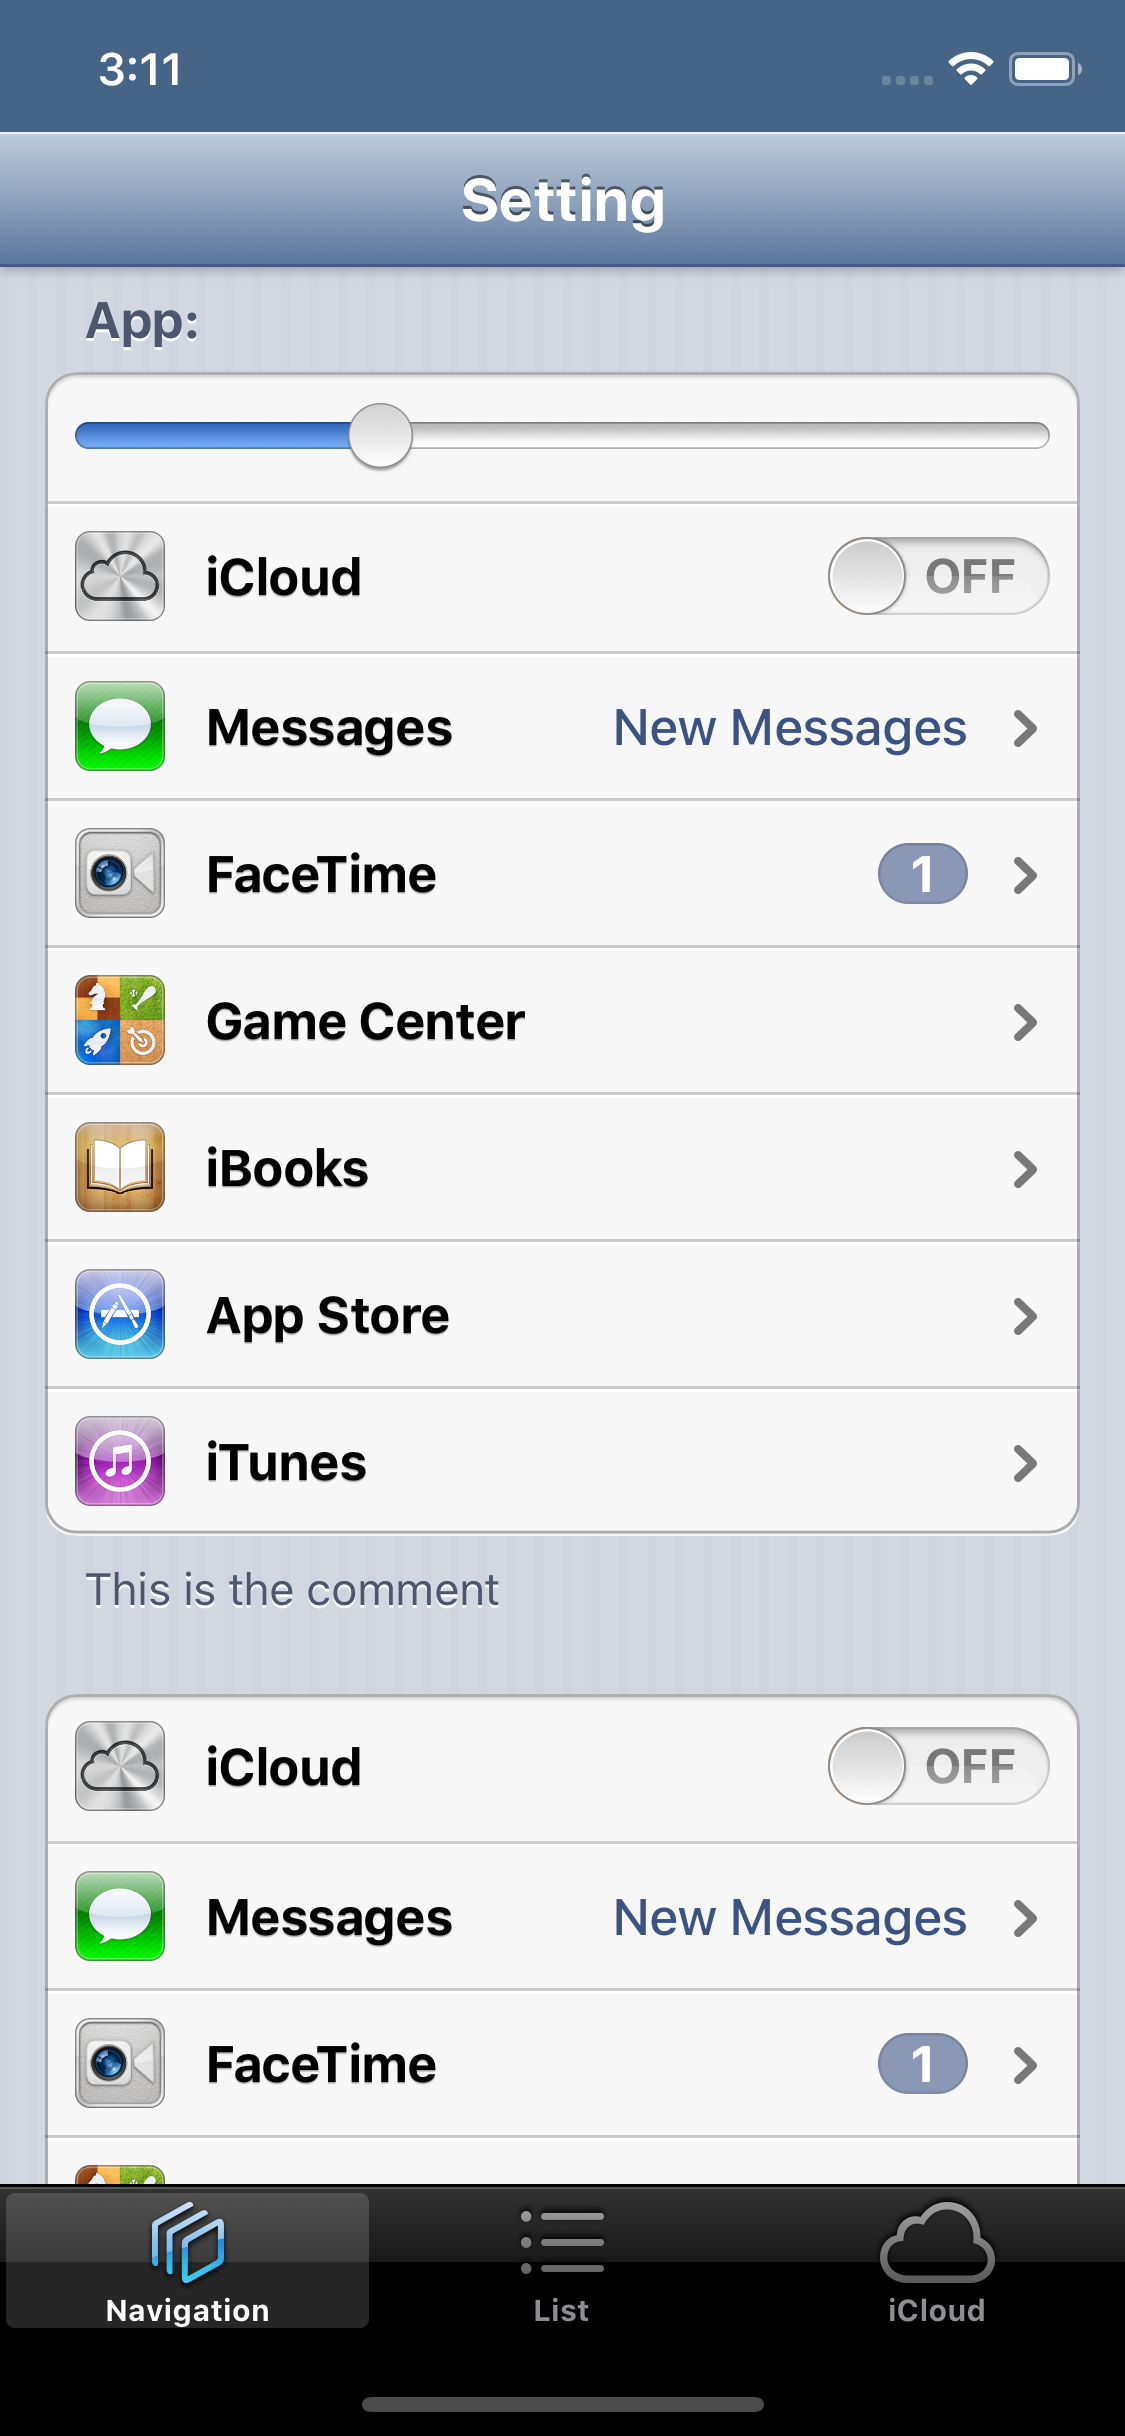
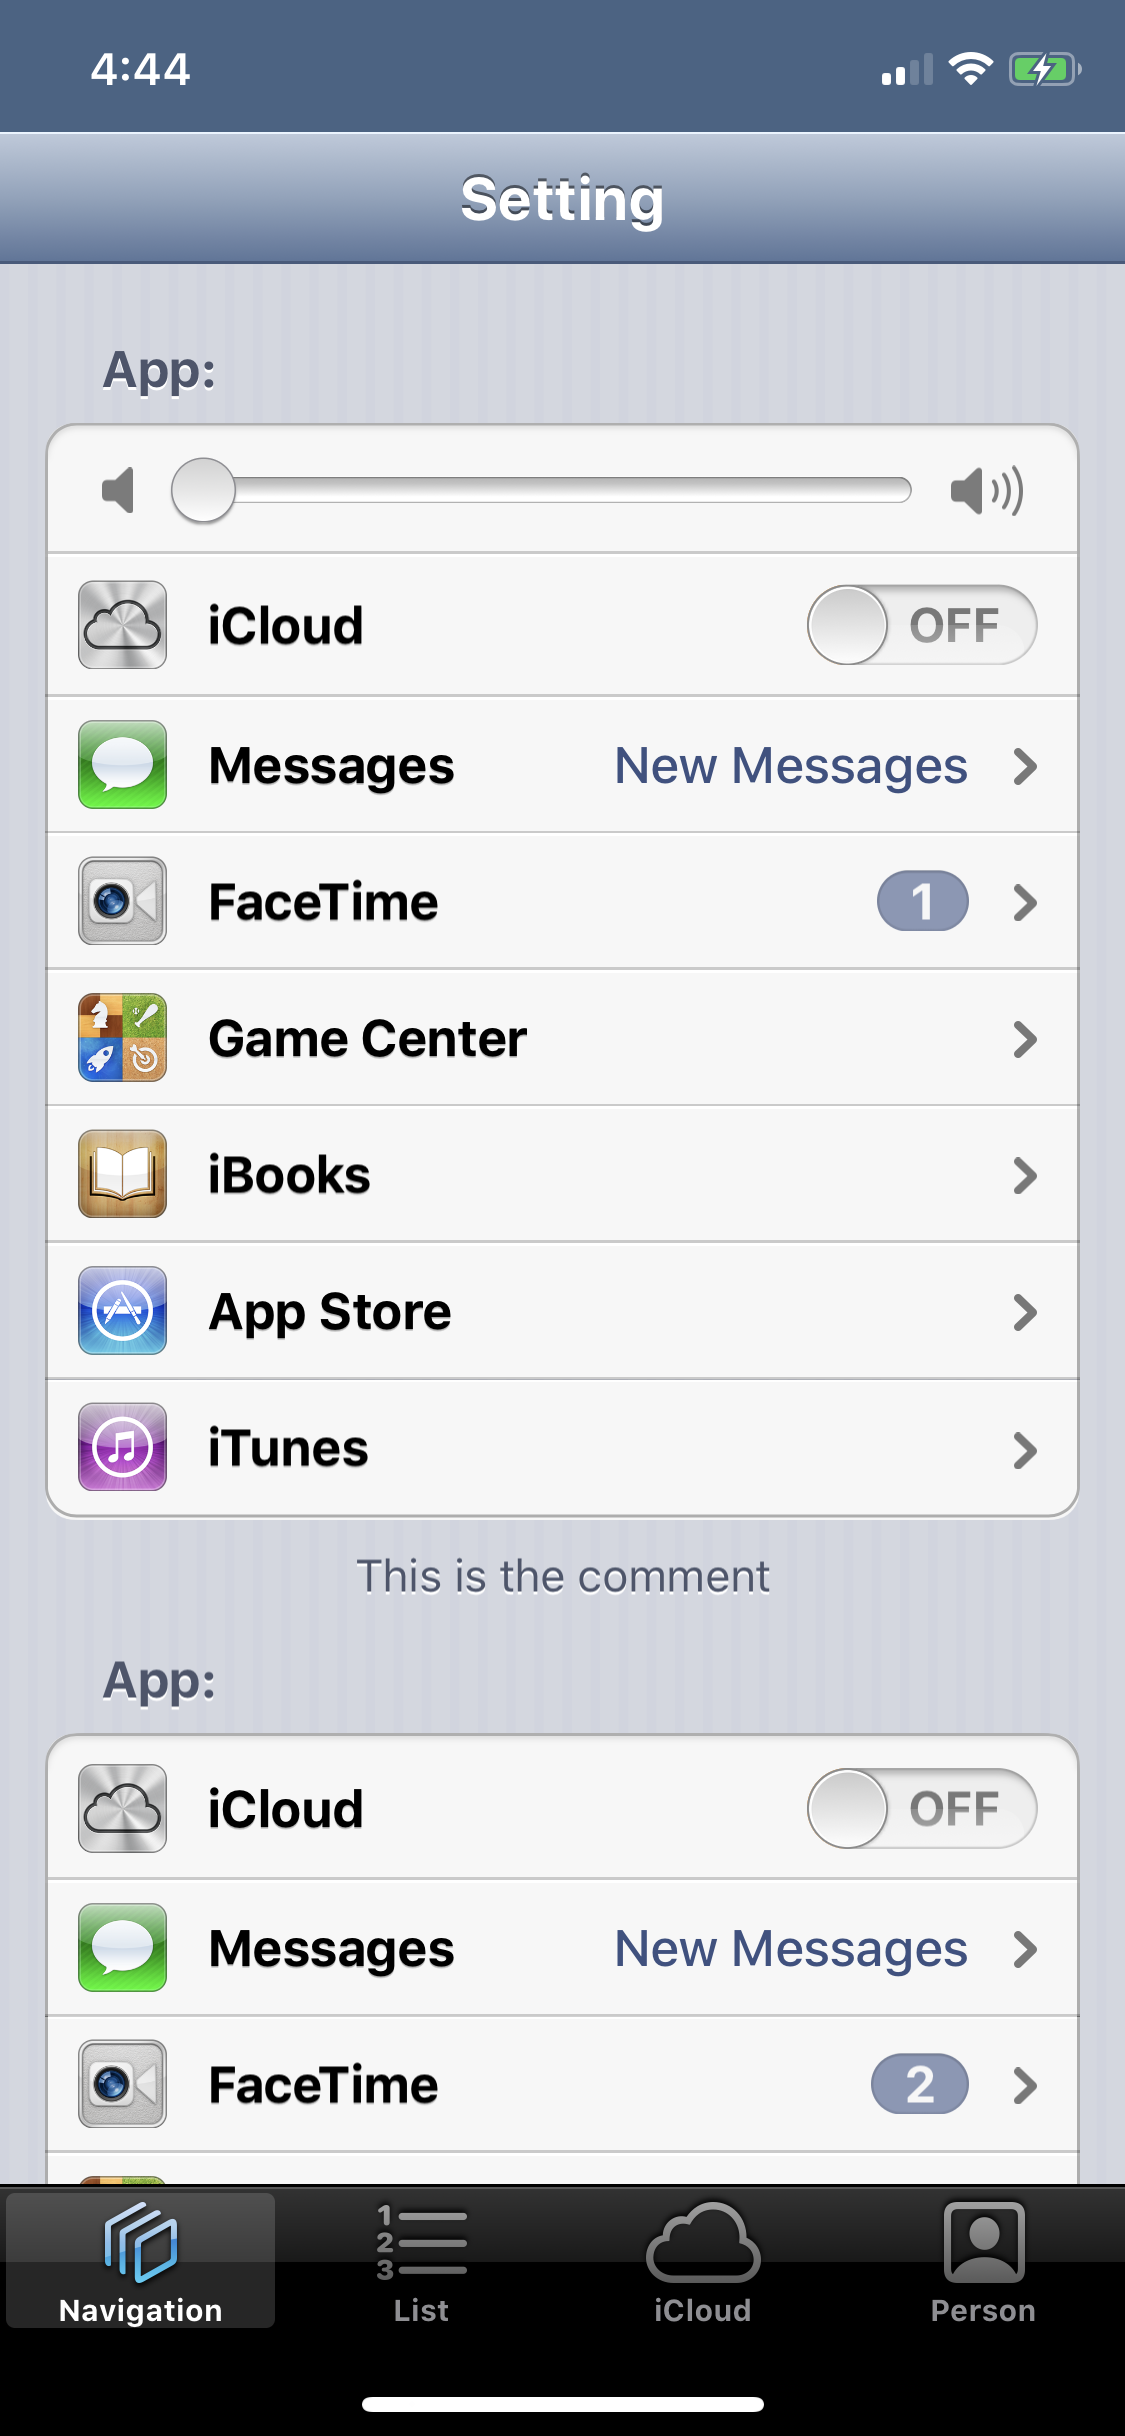
clip IOS6NavigationView to bound

diff --git a/Demo/Demo/SettingView.swift b/Demo/Demo/SettingView.swift
@@ -11,7 +11,6 @@ import IOS6SwiftUI
 
 struct SettingView: View {
     @State private var isOn = false
-    @State private var title = "Setting"
     @State private var flag = false
     @State private var flag1 = false
     @State private var flag2 = false
@@ -32,11 +31,11 @@ struct SettingView: View {
                             .foregroundColor(Color(red: 123 / 255.0, green: 123 / 255.0, blue: 123 / 255.0)))
                     .ios6FormCellPosition(.top)
                 
-                IOS6Toggle(isOn: self.$isOn) {
+                Toggle(isOn: self.$isOn) {
                     IOS6PresetTableCell(image: Image("AppleIDiCloud"), title: "iCloud")
                 }
                 .ios6FormCellPosition(.mid)
-                .ios6ToggleColor(Color(red: 255.0/255.0, green: 127.0/255.0, blue: 2.0/255.0))
+                .toggleStyle(IOS6ToggleStyle(tint: Color(red: 255.0/255.0, green: 127.0/255.0, blue: 2.0/255.0)))
                 
                 IOS6NavigationLink(destination: SettingView()) {
                     IOS6PresetTableCell(image: Image("AppleIDMessages"), title: "Messages", comment: "New Messages")
@@ -64,11 +63,10 @@ struct SettingView: View {
             }
             
             Section(header: Text("App:").ios6FormSectionFontBold()) {
-                IOS6Toggle(isOn: self.$isOn) {
+                Toggle(isOn: self.$isOn) {
                     IOS6PresetTableCell(image: Image("AppleIDiCloud"), title: "iCloud")
                 }
                 .ios6FormCellPosition(.top)
-                .ios6ToggleColor(Color(red: 255.0/255.0, green: 127.0/255.0, blue: 2.0/255.0))
                 
                 IOS6NavigationLink(destination: SettingView()) {
                     IOS6PresetTableCell(image: Image("AppleIDMessages"), title: "Messages", comment: "New Messages")
@@ -119,7 +117,7 @@ struct SettingView: View {
                 }
                 .ios6FormCellPosition(.mid)
                 .present(isPresented: self.$flag1, with: .interactiveSpring(response: 0.4)) {
-                    RoundWidget(adaptiveDismissable: true)
+                    RoundWidget(adaptiveDismissable: true, content: { DismissView() })
                 }
                 
                 Button(action: {
@@ -143,7 +141,7 @@ struct SettingView: View {
                 }
             }
         }
-        .ios6NavigationTitle(self.title)
+        .ios6NavigationTitle("Setting")
     }
     
     var refresh: some View {
@@ -156,51 +154,5 @@ struct SettingView: View {
 struct FormView_Previews: PreviewProvider {
     static var previews: some View {
         SettingView()
-    }
-}
-
-struct RoundWidget: View {
-    @State private var percent: CGFloat = 0
-    @State private var time: Date = Date()
-    @Environment(\.ios6PresentationMode) private var presentMode
-    var adaptiveDismissable: Bool = true
-    
-    @ViewBuilder var body: some View {
-        Color.black.opacity(0.4)
-            .frame(maxWidth: .infinity, maxHeight: .infinity)
-            .edgesIgnoringSafeArea(.all)
-            .zIndex(0)
-        
-        GeometryReader { geo in
-            DismissView()
-                .aspectRatio(1.1, contentMode: .fit)
-                .cornerRadius(35)
-                .offset(x: 0, y: self.percent * geo.size.width)
-                .simultaneousGesture(
-                    DragGesture(minimumDistance: 0, coordinateSpace: .global)
-                        .onChanged { value in
-                            let decay: CGFloat = value.translation.height < 0 ? 3 : self.adaptiveDismissable ? 1.2 : 2.5
-                            self.percent = value.translation.height / geo.size.width / decay
-                            self.time = value.time
-                        }
-                        .onEnded { value in
-                            let decay: CGFloat = value.translation.height < 0 ? 5 : self.adaptiveDismissable ? 1 : 2.5
-                            let newPercent = value.translation.height / geo.size.width / decay
-                            let speed = Double(newPercent) / (value.time.timeIntervalSinceReferenceDate - self.time.timeIntervalSinceReferenceDate)
-                            if self.adaptiveDismissable, newPercent > 0.6 || speed > 40 {
-                                self.presentMode.dismiss()
-                            } else {
-                                withAnimation {
-                                    self.percent = 0
-                                }
-                            }
-                        })
-                .padding(.all, 5)
-                .frame(maxWidth: .infinity, maxHeight: .infinity, alignment: .bottom)
-                
-        }
-        .transition(.move(edge: .bottom))
-        .edgesIgnoringSafeArea(.all)
-        .zIndex(1)
     }
 }

diff --git a/Sources/IOS6SwiftUI/Others/RoundWidget/RoundWidget.swift b/Sources/IOS6SwiftUI/Others/RoundWidget/RoundWidget.swift
@@ -1,0 +1,70 @@
+//
+//  RoundWidget.swift
+//  Demo
+//
+//  Created by Xuan Li on 8/30/20.
+//  Copyright © 2020 Xuan Li. All rights reserved.
+//
+
+import SwiftUI
+
+public struct RoundWidget<Content: View>: View {
+    @State private var percent: CGFloat = 0
+    @State private var time: Date = Date()
+    @Environment(\.ios6PresentationMode) private var presentMode
+    let adaptiveDismissable: Bool
+    let content: Content
+    
+    @ViewBuilder public var body: some View {
+        Color.black.opacity(0.4)
+            .frame(maxWidth: .infinity, maxHeight: .infinity)
+            .edgesIgnoringSafeArea(.all)
+            .zIndex(0)
+        
+        GeometryReader { geo in
+            Color.white
+                .overlay(self.content)
+                .aspectRatio(1.1, contentMode: .fit)
+                .cornerRadius(35)
+                .offset(x: 0, y: self.percent * geo.size.width)
+                .simultaneousGesture(
+                    DragGesture(minimumDistance: 0, coordinateSpace: .global)
+                        .onChanged { value in
+                            let decay: CGFloat = value.translation.height < 0 ? 3 : self.adaptiveDismissable ? 1.2 : 2.5
+                            self.percent = value.translation.height / geo.size.width / decay
+                            self.time = value.time
+                        }
+                        .onEnded { value in
+                            let decay: CGFloat = value.translation.height < 0 ? 5 : self.adaptiveDismissable ? 1 : 2.5
+                            let newPercent = value.translation.height / geo.size.width / decay
+                            let speed = Double(newPercent) / (value.time.timeIntervalSinceReferenceDate - self.time.timeIntervalSinceReferenceDate)
+                            if self.adaptiveDismissable, newPercent > 0.6 || speed > 40 {
+                                self.presentMode.dismiss()
+                            } else {
+                                withAnimation {
+                                    self.percent = 0
+                                }
+                            }
+                        })
+                .padding(.all, 5)
+                .frame(maxWidth: .infinity, maxHeight: .infinity, alignment: .bottom)
+                
+        }
+        .transition(.move(edge: .bottom))
+        .edgesIgnoringSafeArea(.all)
+        .zIndex(1)
+    }
+    
+    public init(adaptiveDismissable: Bool = true, content: () -> Content) {
+        self.adaptiveDismissable = adaptiveDismissable
+        self.content = content()
+    }
+}
+
+struct RoundWidget_Previews: PreviewProvider {
+    static var previews: some View {
+        RoundWidget {
+            EmptyView()
+        }
+    }
+}

diff --git a/Sources/IOS6SwiftUI/IOS6Toggle/IOS6ToggleStyle.swift b/Sources/IOS6SwiftUI/IOS6Toggle/IOS6ToggleStyle.swift
@@ -10,13 +10,25 @@ import SwiftUI
 
 /// IOS6 Toggle Style
 public struct IOS6ToggleStyle: ToggleStyle {
+    let tint: Color
+    // Color(red: 0/255.0, green: 127/255.0, blue: 234/255.0) blue
+    // Color(red: 255.0/255.0, green: 127.0/255.0, blue: 2.0/255.0) orange
+    
+    public init() {
+        self.tint = Color(red: 0/255.0, green: 127/255.0, blue: 234/255.0)
+    }
+    
+    public init(tint: Color) {
+        self.tint = tint
+    }
     
     public func makeBody(configuration: IOS6ToggleStyle.Configuration) -> some View {
-        IOS6ToggleStyleView(configuration)
+        IOS6ToggleStyleView(configuration, tint: tint)
     }
     
     struct IOS6ToggleStyleView: View {
         let configuration: IOS6ToggleStyle.Configuration
+        let tint: Color
         @State private var percent: CGFloat
         
         var body: some View {
@@ -25,13 +37,14 @@ public struct IOS6ToggleStyle: ToggleStyle {
                 Spacer(minLength: 3)
                 _IOS6ToggleView(isOn: configuration.$isOn.onChange{ value in
                     self.percent = value ? 1 : 0
-                })
+                }, color: tint)
             }
             .listRowInsets(.init(top: 8.5, leading: 11, bottom: 9.5, trailing: 14))
         }
         
-        init(_ configuration: IOS6ToggleStyle.Configuration) {
+        init(_ configuration: IOS6ToggleStyle.Configuration, tint: Color) {
             self.configuration = configuration
+            self.tint = tint
             self._percent = State(initialValue: configuration.isOn ? 1 : 0)
         }
     }

diff --git a/Sources/IOS6SwiftUI/IOS6Toggle/_IOS6ToggleView.swift b/Sources/IOS6SwiftUI/IOS6Toggle/_IOS6ToggleView.swift
@@ -11,6 +11,7 @@ import SwiftUI
 struct _IOS6ToggleView: View {
     let height: CGFloat = 27
     let width: CGFloat = 77
+    let color: Color
     
     @Environment(\.isEnabled) private var isEnabled
     @GestureState private var isPressed: Bool = false
@@ -25,14 +26,15 @@ struct _IOS6ToggleView: View {
         }
     }
     
-    init(isOn: Binding<Bool>) {
+    init(isOn: Binding<Bool>, color: Color) {
         _isOn = isOn
         _oldPercent = State(initialValue: isOn.wrappedValue ? self.width - self.height / 2:self.height / 2)
         _percent = _oldPercent
+        self.color = color
     }
     
     var body: some View {
-        Background(offset: isPressed ? percent: isOn ? self.width - self.height / 2:self.height / 2)
+        Background(offset: isPressed ? percent: isOn ? self.width - self.height / 2:self.height / 2, color: color)
             .overlay(
                 RoundedRectangle(cornerRadius: 9)
                     .fill(
@@ -238,8 +240,7 @@ struct _IOS6ToggleView: View {
     
     struct Background: View {
         let offset: CGFloat
-        
-        @Environment(\._ios6ToggleColor) private var color
+        let color: Color
         private let white = Color(red: 238.0/255.0, green: 238.0/255.0, blue: 238.0/255.0)
         
         var body: some View {
@@ -286,6 +287,6 @@ struct _IOS6ToggleView: View {
 
 struct IOS6ToggleView_Previews: PreviewProvider {
     static var previews: some View {
-        _IOS6ToggleView(isOn: .constant(false))
+        _IOS6ToggleView(isOn: .constant(false), color: .blue)
     }
 }

diff --git a/Demo/Demo/ListView.swift b/Demo/Demo/ListView.swift
@@ -30,7 +30,7 @@ struct ListView: View {
                     IOS6PresetTableCell(title:"present with SwiftUI transion")
                 }
                 .present(isPresented: self.$swiftuiTrans, with: .interactiveSpring(response: 0.4)) {
-                    RoundWidget(adaptiveDismissable: self.swiftuiTransAllowDismiss)
+                    RoundWidget(adaptiveDismissable: self.swiftuiTransAllowDismiss, content: { DismissView() })
                 }
                 .overlay(
                     IOS6NavigationLink(destination: self.swiftuiTransConfigView){
@@ -85,7 +85,7 @@ struct ListView: View {
     
     var swiftuiTransConfigView: some View {
         IOS6Form {
-            IOS6Toggle(isOn: self.$swiftuiTransAllowDismiss) {
+            Toggle(isOn: self.$swiftuiTransAllowDismiss) {
                 Text("Allow adaptive dismiss")
             }.ios6FormCellPosition(.single)
         }.ios6NavigationTitle("Configuration")
@@ -108,7 +108,7 @@ struct ListView: View {
     
     var fixedSheetConfigView: some View {
         IOS6Form {
-            IOS6Toggle(isOn: self.$swiftuiTransAllowDismiss) {
+            Toggle(isOn: self.$swiftuiTransAllowDismiss) {
                 Text("Allow adaptive dismiss")
             }.ios6FormCellPosition(.single)
         }.ios6NavigationTitle("Configuration")

diff --git a/Sources/IOS6SwiftUI/IOS6NavigationView/IOS6NavigationView.swift b/Sources/IOS6SwiftUI/IOS6NavigationView/IOS6NavigationView.swift
@@ -19,7 +19,9 @@ public struct IOS6NavigationView<Content: View>: View {
         let masterComponent = Component(root: master, content: style.makeMasterBody, type: .master)
         let detailComponent = Component(root: detail, content: style.makeDetailBody, type: .detail)
         let configuration = Configuration(sideBar: sideBarComponent, master: masterComponent, detail: detailComponent)
-        return style.makeBody(configuration: configuration)
+        return ScrollView([]) {
+            style.makeBody(configuration: configuration)
+        }
     }
 }
 

diff --git a/Demo/Demo/DismissView.swift b/Demo/Demo/DismissView.swift
@@ -20,7 +20,7 @@ struct DismissView: View {
             
             VStack {
                 if avaliable {
-                    IOS6Toggle(isOn: $allowDismiss) {
+                    Toggle(isOn: $allowDismiss) {
                         Text("Allow Adaptive Dismiss").foregroundColor(.black)
                     }.padding()
                 }

diff --git a/Sources/IOS6SwiftUI/IOS6RootView/IOS6RootView.swift b/Sources/IOS6SwiftUI/IOS6RootView/IOS6RootView.swift
@@ -29,6 +29,7 @@ public struct IOS6RootView<Content: View>: View {
             .onPreferenceChange(_IOS6StatusBarKey.self) { builder in
                 self.statusBar = builder
             }
+            .toggleStyle(IOS6ToggleStyle())
             
             GeometryReader { proxy in
                 self.StatusBar
